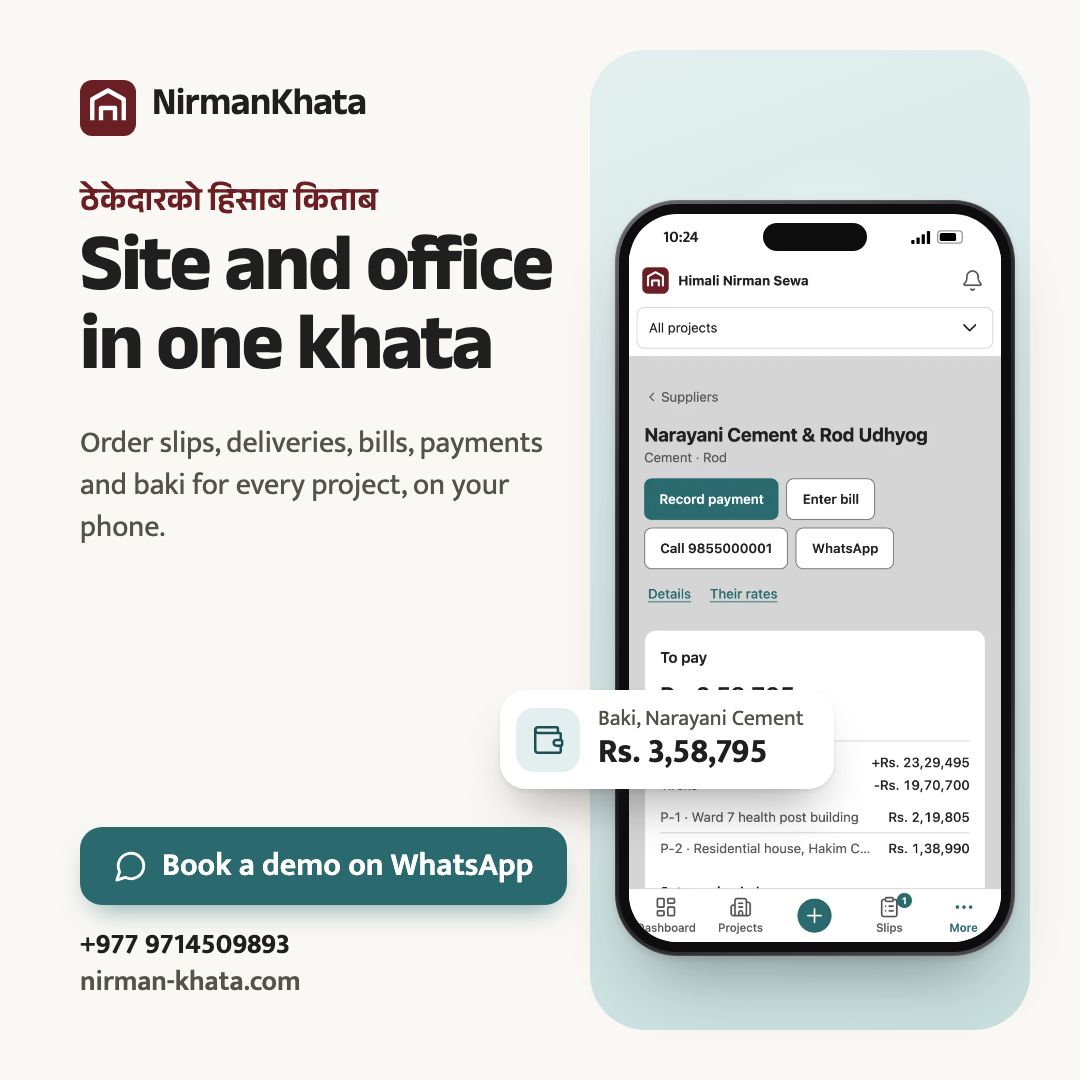
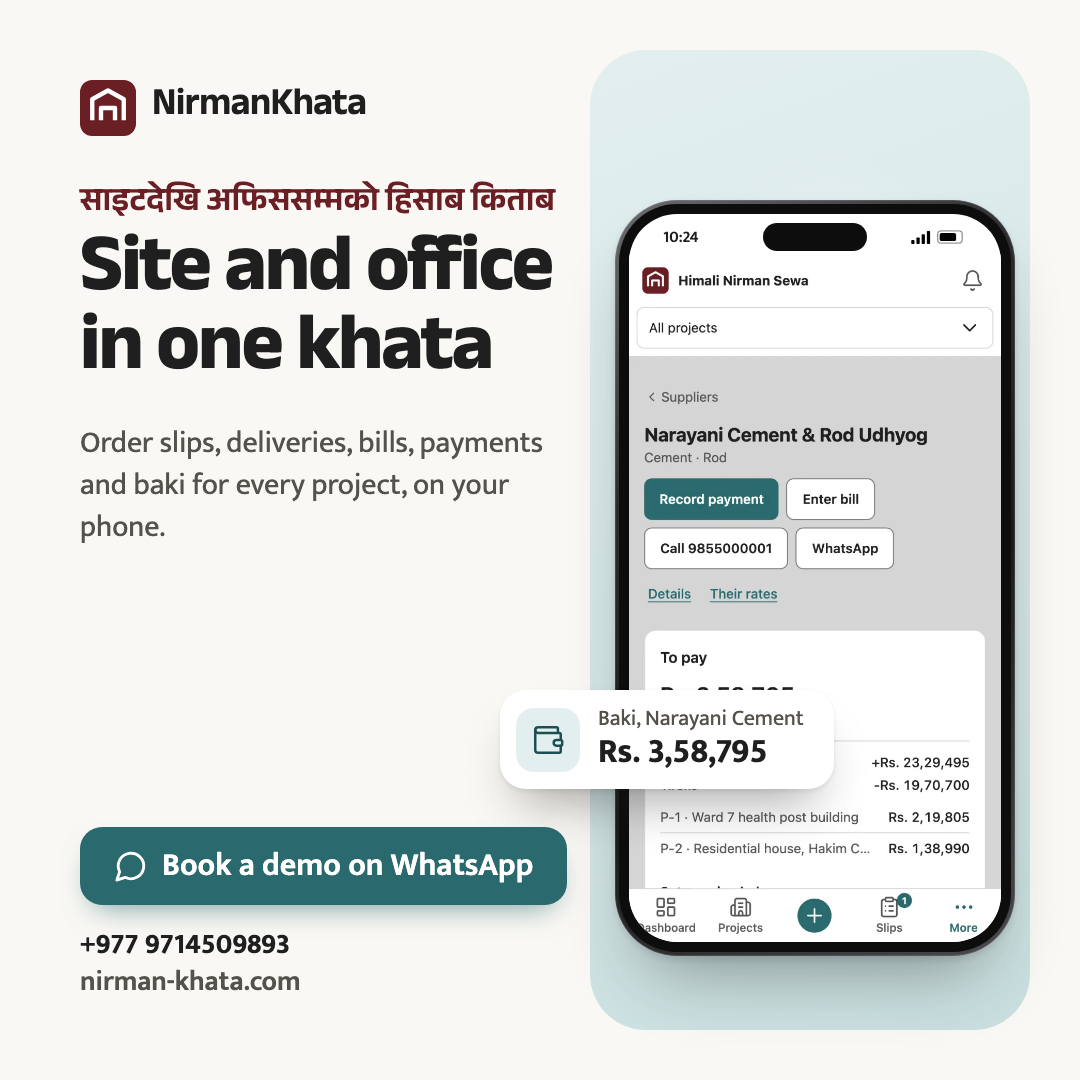
Site and ads: निर्माण व्यवसायी instead of ठेकेदार

Changed region(s): [[0.0611, 0.1528, 0.5194, 0.2139]]

diff --git a/scripts/ads/ad.html b/scripts/ads/ad.html
@@ -56,7 +56,7 @@ h1 { margin-top: 10px; font: 700 104px/0.98 Anek; letter-spacing: -0.025em; }
 <body>
 <div class="copy">
   <div class="brand"><svg viewBox="0 0 64 64" width="56" height="56"><rect width="64" height="64" rx="14" fill="#6a1f24"/><path d="M14 46V22l18-10 18 10v24M24 46V32h16v14" fill="none" stroke="#fff" stroke-width="5" stroke-linejoin="round"/></svg>NirmanKhata</div>
-  <p class="tag" lang="ne">ठेकेदारको हिसाब किताब</p>
+  <p class="tag" lang="ne">साइटदेखि अफिससम्मको हिसाब किताब</p>
   <h1>Site and office<br>in one khata</h1>
   <p class="lead">Order slips, deliveries, bills, payments and baki for every project, on your phone.</p>
 </div>

diff --git a/site/src/content.ts b/site/src/content.ts
@@ -27,7 +27,7 @@ export const meta = {
 }
 
 export const hero = {
-  tagline: 'निर्माण खाता: ठेकेदारको हिसाब किताब',
+  tagline: 'निर्माण व्यवसायीको हिसाब किताब',
   title: 'Site and office in one khata',
   lead: 'Site staff record order slips, deliveries and labour on their phone. The office enters bills and payments. You see what each project has cost, what is paid and what is still baki.',
   note: 'Registration is by invitation: we set up your company with you.',
